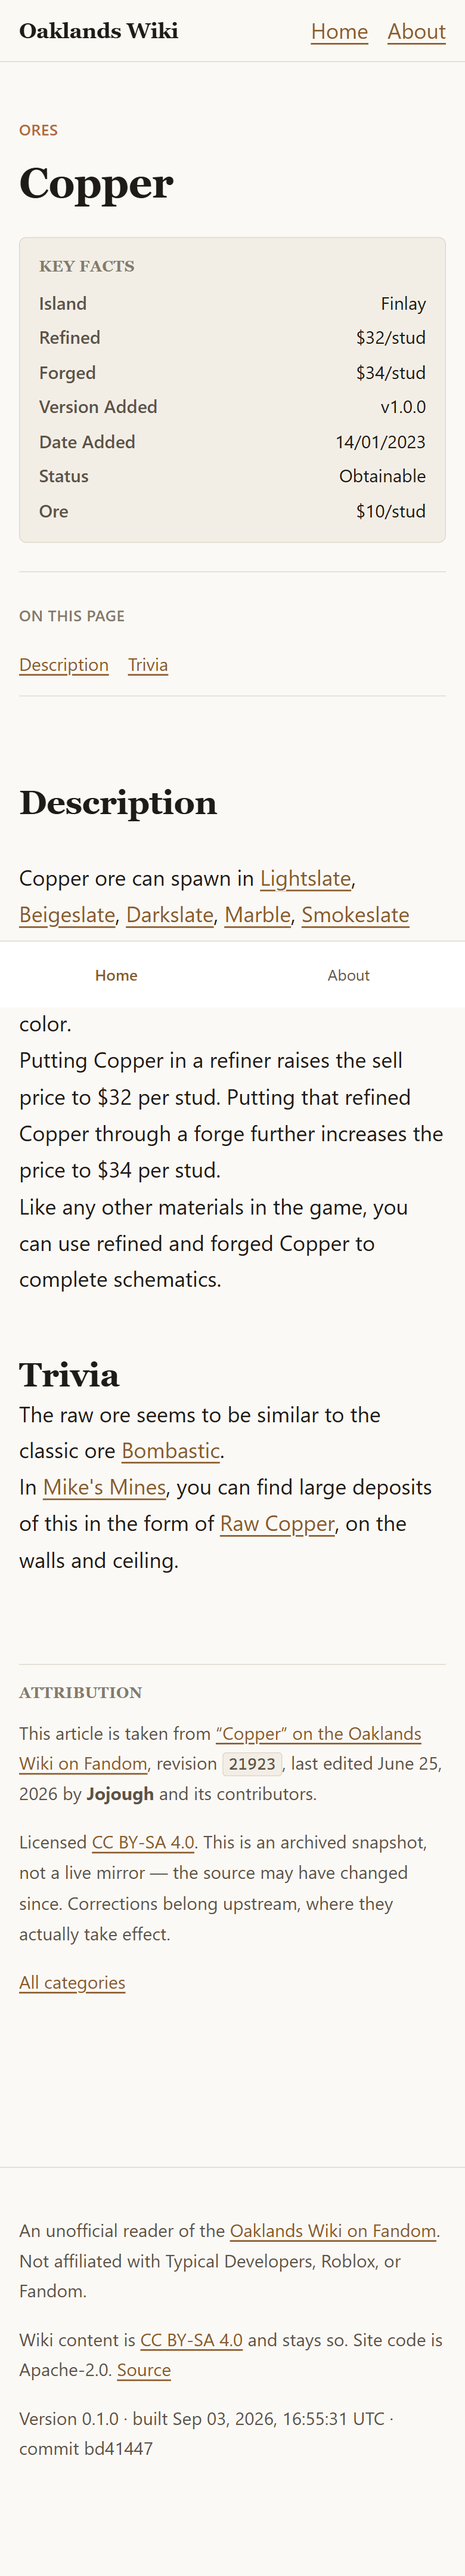
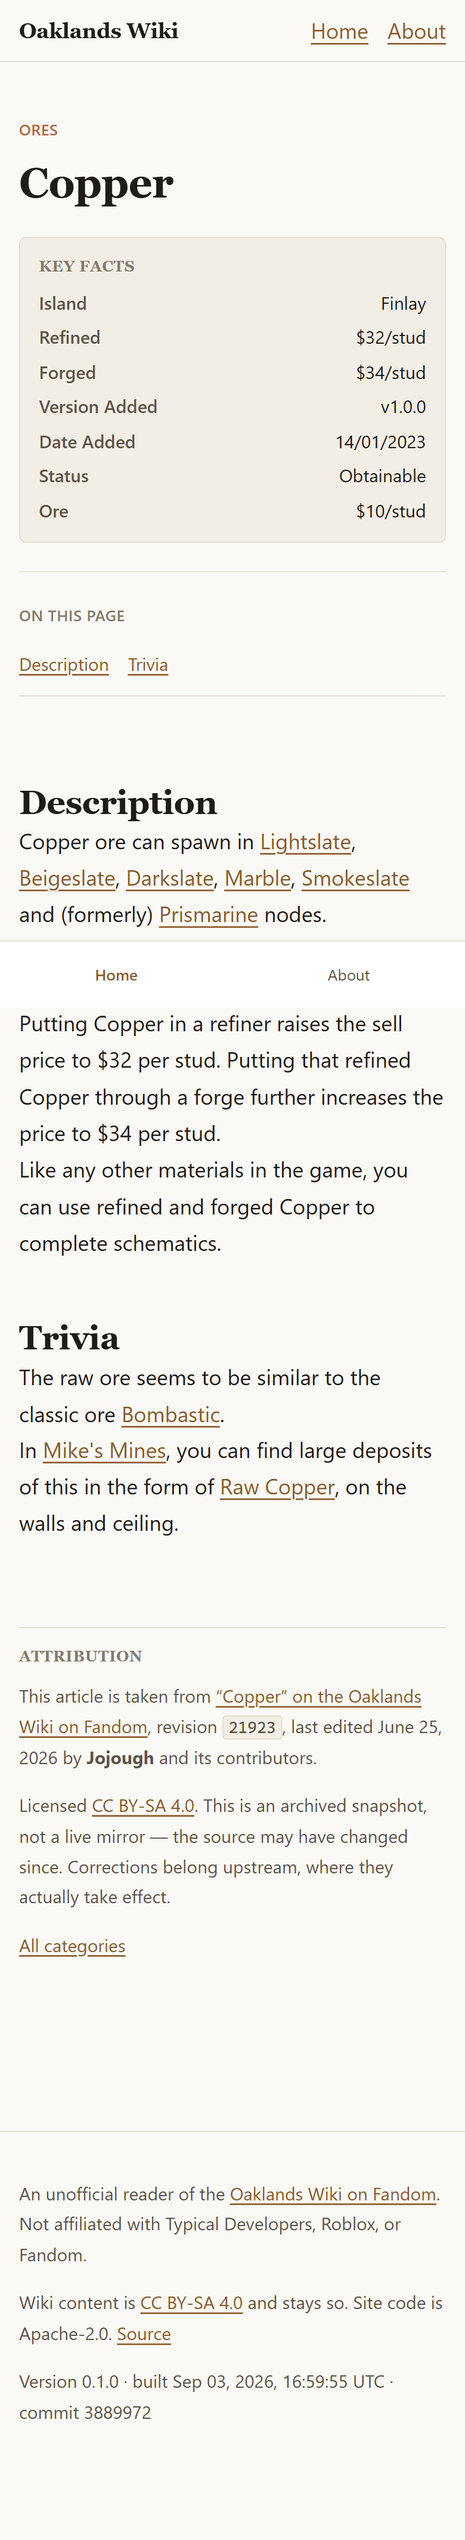
Stop a blanket paragraph reset from silently collapsing every article gap
`.ok-prose p { margin: 0 }` has specificity (0,1,1). The spacing rules that give
an article its rhythm are `> * + *`, which is (0,1,0). So the reset won every
time, every paragraph gap measured exactly 0px, and both rules looked entirely
correct in the stylesheet -- the losing one especially.

Measured on the built page rather than read: gaps of [0, 0, 0, 82, 0]. Reading
CSS cannot tell you which rule won; only the running page can.

Paragraph margins are now reset once at the element layer, where "no generic
HTML" belongs, and the spacing rules are left to do the spacing. `p`, `h5` and
`h6` join the required-element list so they keep their own rules.

`.ok-prose p { margin: 0 }` 嘅 specificity 係 (0,1,1)，而負責排版嘅 `> * + *` 得
(0,1,0)。所以 reset 場場贏，每個段落之間啱啱好 0px，而兩條規則喺 stylesheet 入面
睇落都完全正常 —— 尤其係輸嗰條。

係度出嚟嘅：段落間距 [0, 0, 0, 82, 0]。睇 CSS 係睇唔出邊條贏嘅，要行緊嗰版先知。

diff --git a/src/styles/base.css b/src/styles/base.css
@@ -20,7 +20,10 @@ body {
 
 .ok-prose { max-width: var(--ok-measure); }
 .ok-prose > * + * { margin-block-start: var(--ok-rhythm); }
-.ok-prose p { margin: 0; }
+/* NB: no blanket `.ok-prose p { margin: 0 }` here. Its specificity (0,1,1)
+   beats the `> * + *` spacing rules (0,1,0), which silently collapsed every
+   paragraph gap to zero while the spacing rules looked perfectly correct.
+   Paragraph margins are reset once, by element, in elements.css. */
 
 h1, h2, h3, h4 {
   font-family: var(--ok-font-display);

diff --git a/src/styles/elements.css b/src/styles/elements.css
@@ -16,6 +16,7 @@
 
 /* ---- Reset: remove the browser's opinions before adding ours ---------- */
 
+p, h1, h2, h3, h4, h5, h6,
 blockquote, dl, dd, figure, pre, fieldset, menu {
   margin: 0;
   padding: 0;
